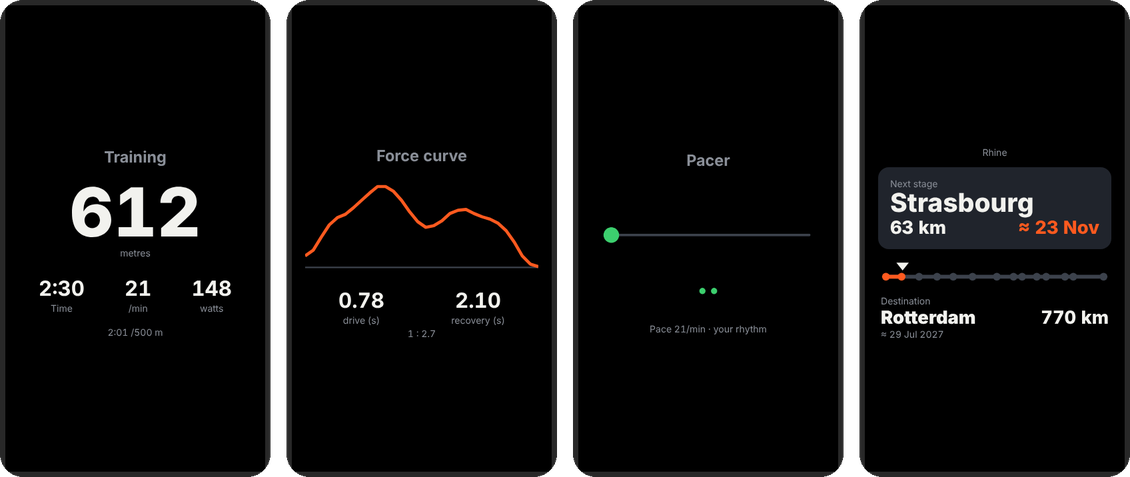
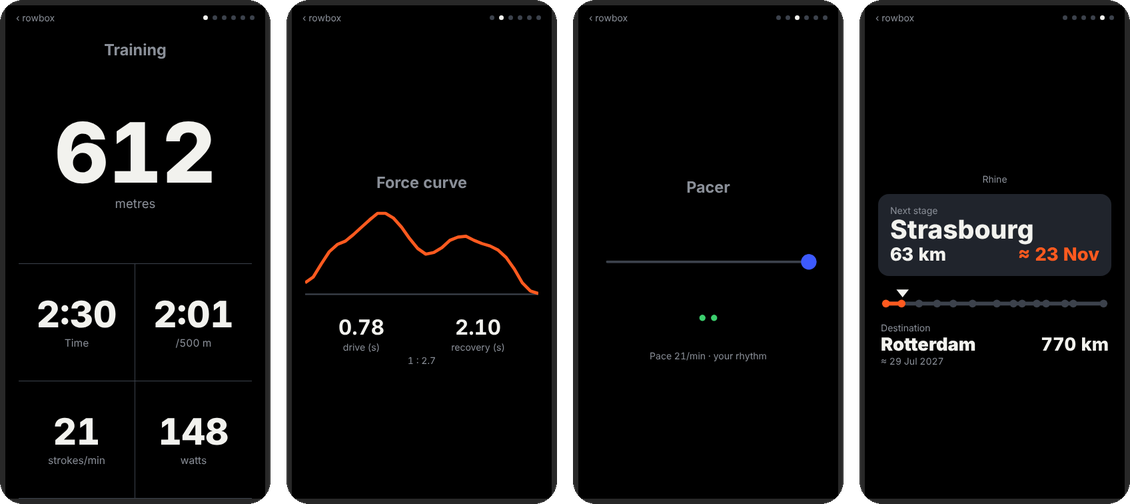
Phone display: training screen uses the full portrait height

diff --git a/rowportal.py b/rowportal.py
@@ -702,6 +702,17 @@ svg,canvas{width:100%;display:block;margin-top:18px}
 .st li span{margin-left:auto;color:var(--dim);font-weight:400;font-size:clamp(14px,4.4vw,20px)}
 .st i{width:16px;height:16px;border-radius:50%;background:var(--line);flex:none}
 .st i.ok{background:var(--ok)}.st i.bad{background:#e5484d}.st i.wait{background:#3d5afe}
+#training .sc{height:100%;display:flex;flex-direction:column;max-width:520px}
+.hero{flex:1;display:flex;flex-direction:column;justify-content:center;min-height:0}
+.hero .huge{font-size:clamp(84px,min(32vw,20vh),210px);margin:0}
+.hero .sub{font-size:clamp(15px,2.4vh,22px)}
+.tiles{display:grid;grid-template-columns:1fr 1fr;flex:1.15;min-height:0;border-top:1px solid var(--line)}
+.tiles>div{display:flex;flex-direction:column;justify-content:center;border-bottom:1px solid var(--line)}
+.tiles>div:nth-child(odd){border-right:1px solid var(--line)}
+.tiles b{font-size:clamp(38px,min(14vw,8.5vh),84px);font-weight:800;line-height:1.05}
+.tiles span{color:var(--dim);font-size:clamp(13px,2vh,18px);margin-top:4px}
+.pausebox{flex:1.15;display:flex;flex-direction:column;justify-content:center;border-top:1px solid var(--line)}
+.pausebox .big{font-size:clamp(56px,min(20vw,12vh),120px)}
 .hint{position:fixed;bottom:12px;left:0;right:0;text-align:center;color:var(--dim);font-size:13px;transition:opacity .6s}
 """
 
@@ -730,9 +741,10 @@ async function live(){
   S=await r.json()}catch(e){S={}}
  const pause=!S.active&&S.pause_left!=null;
  $('tr-t').textContent=S.active||!S.session?T.training:T.pause;
- $('tr-dist').textContent=(S.dist||0).toLocaleString(T.locale);
- $('tr-time').textContent=mmss(S.elapsed);$('tr-spm').textContent=S.spm||0;$('tr-w').textContent=S.watts||0;
- $('tr-pace').textContent=S.pace?mmss(S.pace)+' /500 m':'';
+ const dt=(S.dist||0).toLocaleString(T.locale),de=$('tr-dist');de.textContent=dt;
+ de.style.fontSize=dt.length>4?'min('+(128/dt.length).toFixed(1)+'vw,'+(80/dt.length).toFixed(1)+'vh,210px)':'';
+ const tm=mmss(S.elapsed);$('tr-time').textContent=tm;$('tr-time').style.fontSize=tm.length>5?'min('+(70/tm.length).toFixed(1)+'vw,'+(42/tm.length).toFixed(1)+'vh,84px)':'';$('tr-spm').textContent=S.spm||0;$('tr-w').textContent=S.watts||0;
+ $('tr-pace').textContent=S.pace?mmss(S.pace):'–';
  $('tr-pause').style.display=pause?'':'none';$('tr-row').style.display=pause?'none':'';
  if(pause)$('tr-left').textContent=mmss(S.pause_left);
  if(S.curve){$('fc-path').setAttribute('points',S.curve.map((v,i)=>(i*300/(S.curve.length-1)).toFixed(1)+','+(112-v*1.05).toFixed(1)).join(' '));
@@ -829,11 +841,12 @@ def screen_page():
 <div class="top"><a href="/live">‹ rowbox</a><div class="dots" id="dots"></div></div>
 <main class="deck" id="deck">
 <section class="slide" id="training"><div class="sc"><div class="t" id="tr-t">{L("Training")}</div>
-<div class="huge" id="tr-dist">0</div><div class="sub">{L("Meter")}</div>
-<div class="row3" id="tr-row"><div><b id="tr-time">0:00</b><span>{L("Zeit")}</span></div>
-<div><b id="tr-spm">0</b><span>/min</span></div><div><b id="tr-w">0</b><span>{L("Watt")}</span></div></div>
-<div id="tr-pause" style="display:none;margin-top:24px"><div class="lab">{L("Automatisches Ende in")}</div>
-<div class="big warn" id="tr-left"></div></div><div class="sub" id="tr-pace" style="margin-top:18px"></div></div></section>
+<div class="hero"><div class="huge" id="tr-dist">0</div><div class="sub">{L("Meter")}</div></div>
+<div class="tiles" id="tr-row"><div><b id="tr-time">0:00</b><span>{L("Zeit")}</span></div>
+<div><b id="tr-pace">–</b><span>/500 m</span></div>
+<div><b id="tr-spm">0</b><span>{L("Schläge/min")}</span></div><div><b id="tr-w">0</b><span>{L("Watt")}</span></div></div>
+<div class="pausebox" id="tr-pause" style="display:none"><div class="lab">{L("Automatisches Ende in")}</div>
+<div class="big warn" id="tr-left"></div></div></div></section>
 <section class="slide" id="force"><div class="sc"><div class="t">{L("Kraftkurve")}</div>
 <svg viewBox="0 -4 300 120"><line x1="0" y1="112" x2="300" y2="112" stroke="#3c424c" stroke-width="2"/>
 <polyline id="fc-path" fill="none" stroke="#ff5a1f" stroke-width="4" stroke-linejoin="round" points=""/></svg>
